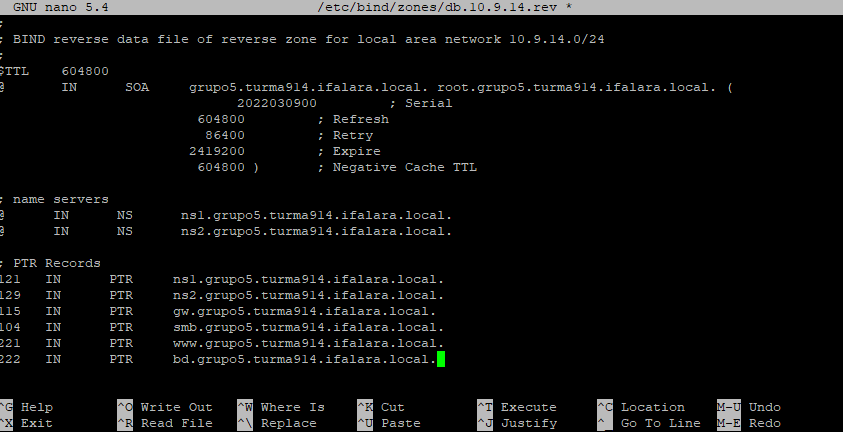
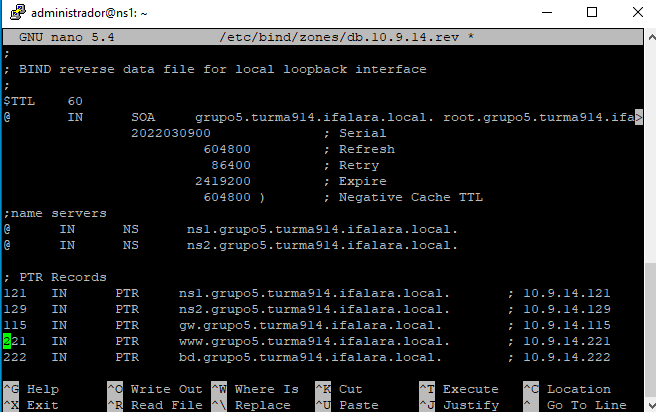
Stage 1

diff --git a/1Etapa/Readme.md b/1Etapa/Readme.md
@@ -24,7 +24,7 @@ c) Criar a página do github do projeto do grupo.
 |:-------------|:------------  | :---------------- |
 |IP de Broadcast:|	10.9.14.255/24	|	192.168.14.39|		
 |IP do GW:|	ens160 10.9.14.115	|ens192 	192.168.14.33|
-|IP do SAMBA:	|ens160	10.9.14.104	| ens192	192.168.14.34|
+|IP do SAMBA:	|ens160	10.9.14.121	| ens192	192.168.14.|
 |IP do NS1:	|ens160	10.9.14.121	| ens192	192.168.14.35|
 |IP do NS2:	|ens160	10.9.14.129	| ens192	192.168.14.36|
 |IP do WEB	|ens160	10.9.14.221	| ens192	192.168.14.37|
@@ -35,7 +35,7 @@ c) Criar a página do github do projeto do grupo.
 |VM	Domínio | (zona): |grupo5.turma914.ifalara.local|
 |:----------|:--------|:----------------------------|			
 |Aluno29	|FQDN do GW:	|gw.grupo5.turma914.ifalara.local|
-|Aluno04	|FQDN do SAMBA:	|smb.grupo5.turma914.ifalara.local|
+|Aluno21	|FQDN do SAMBA:	|ns1.grupo5.turma914.ifalara.local|
 |Aluno21	| FQDN do NS1:	| ns1.grupo5.turma914.ifalara.local|
 |Aluno15 |	FQDN do NS2: | ns2.grupo5.turma914.ifalara.local|
 |Grupo5vm1 | FQDN do WEB	| www.grupo5.turma914.ifalara.local |
@@ -111,31 +111,6 @@ $ sudo nano /etc/bind/zones/db.grupo5.turma914.ifalara.local
 
 ### Nele vamos colocar os DNS e os IPs:
 
-Configure, como está abaixo:
-````
-;
-; BIND data file for internal network
-;
-$ORIGIN grupo5.turma914.ifalara.local.
-$TTL	3h
-@	IN	SOA	ns1.grupo5.turma914.ifalara.local. root.grupo4.turma914.ifalara.local. (
-			      2022030900		; Serial
-			      3h	; Refresh
-			      1h	; Retry
-			      1w	; Expire
-			      1h )	; Negative Cache TTL
-;nameservers
-@	IN	NS	ns1.grupo5.turma914.ifalara.local.
-@	IN	NS	ns2.grupo5.turma914.ifalara.local.
-
-;hosts
-ns1.grupo5.turma914.ifalara.local.	  IN	A	10.9.14.121
-ns2.grupo5.turma914.ifalara.local.	  IN	A	10.9.14.129
-smb.grupo5.turma914.ifalara.local.	  IN	A	10.9.14.104
-gw.grupo5.turma914.ifalara.local.	  IN 	A	10.9.14.115
-www.grupo5.turma914.ifalara.local.	  IN 	A	10.9.14.221
-bd.grupo5.turma914.ifalara.local.	  IN 	A	10.9.14.222
-````
 ### ANTES:
 	
 ![7](https://github.com/MNahVR/Sred-Final/blob/main/1Etapa/ns1/Galeria/7.png)
@@ -152,31 +127,6 @@ $ sudo nano /etc/bind/zones/db.10.9.14.rev
 
 ### Nele vamos colocar os DNS e os IPs:
 
-
-````
-;
-; BIND reverse data file of reverse zone for local area network 10.9.14.0/24
-;
-$TTL    604800
-@       IN      SOA     grupo5.turma914.ifalara.local. root.grupo5.turma914.ifalara.local. (
-                              2022030900         ; Serial
-                         604800         ; Refresh
-                          86400         ; Retry
-                        2419200         ; Expire
-                         604800 )       ; Negative Cache TTL
-
-; name servers
-@      IN      NS      ns1.grupo5.turma914.ifalara.local.
-@      IN      NS      ns2.grupo5.turma914.ifalara.local.
-
-; PTR Records
-121   IN      PTR     ns1.grupo5.turma914.ifalara.local.
-129   IN      PTR     ns2.grupo5.turma914.ifalara.local.
-115   IN      PTR     gw.grupo5.turma914.ifalara.local.
-104   IN      PTR     smb.grupo5.turma914.ifalara.local.
-221   IN      PTR     www.grupo5.turma914.ifalara.local.
-222   IN      PTR     bd.grupo5.turma914.ifalara.local.
-````
 ### ANTES:
 	
 ![10](https://github.com/MNahVR/Sred-Final/blob/main/1Etapa/ns1/Galeria/10.png)
@@ -296,7 +246,7 @@ network:
       nameservers:
         addresses:
           - 10.9.14.121
-          - 10.9.14.115
+          - 10.9.14.129
         search: [grupo5.turma914.ifalara.local]
     ens192:
       addresses: [192.168.14.35/29]
@@ -324,7 +274,8 @@ $ ping google.com
 
 
 
-## Na máquina ns2, é necessário configurar o Dns Slave com os dominios corretos
+## 3.2 - Configuração da máquina ns2, 
+### Nela vamos configurar o Dns Slave com os dominios corretos
 
 ## 1º passo - Corrigir o nome da maquina, colocando de acordo com a planilha de acompanhamento
 ````
@@ -373,7 +324,7 @@ network:
       nameservers:
         addresses:
           - 10.9.14.1		
-          - 10.9.14.115
+          - 10.9.14.129
         search: [grupo5.turma914.ifalara.local]
     ens192:
       addresses: [192.168.14.36/29]

diff --git a/1Etapa/ns1/Readme.md b/1Etapa/ns1/Readme.md
@@ -1,51 +1,4 @@
-# 1ª PARTE DO PROJETO FINAL DE SRED
-
-## 1. Introdução
-### Nessa etapa, devesse fornecer:
-
-a) A apresentação das tabelas de definições de nomes e IPs para todas as VMs
-
-b) Criar o DNS Master e Slave, conforme o nome de domínio: grupo5.turma914.ifala.local.
-	
-c) Criar a página do github do projeto do grupo.
-
-## 2. Definições iniciais:
-
- |          GRUPO 5					           |
- |:------------------------------------|
- |         Nome dos integrantes        |
- |Aluno 1:   Maria Nathálya Veiga Rodrigues  |
- |Aluno 2:	 Diogo Bonfim Pinheiro	      |
- |Aluno 3:	 Sandrielly Amorim Silva      |
-
-
-### CONFIGURAÇÕES DAS INTEFACES DE REDE		
-|IP da Subrede:| 10.9.14.0/24  | 	192.168.14.32/29 |
-|:-------------|:------------  | :---------------- |
-|IP de Broadcast:|	10.9.14.255/24	|	192.168.14.39|		
-|IP do GW:|	ens160 10.9.14.115	|ens192 	192.168.14.33|
-|IP do SAMBA:	|ens160	10.9.14.104	| ens192	192.168.14.34|
-|IP do NS1:	|ens160	10.9.14.121	| ens192	192.168.14.35|
-|IP do NS2:	|ens160	10.9.14.129	| ens192	192.168.14.36|
-|IP do WEB	|ens160	10.9.14.221	| ens192	192.168.14.37|
-|IP do BD	|ens160	10.9.14.222	| ens192	192.168.14.38|
-					
-
-### Definição de Nomes e Domínio (<grupo>.<turma>.ifalara.local):		
-|VM	Domínio | (zona): |grupo5.turma914.ifalara.local|
-|:----------|:--------|:----------------------------|			
-|Aluno29	|FQDN do GW:	|gw.grupo5.turma914.ifalara.local|
-|Aluno04	|FQDN do SAMBA:	|smb.grupo5.turma914.ifalara.local|
-|Aluno21	| FQDN do NS1:	| ns1.grupo5.turma914.ifalara.local|
-|Aluno15 |	FQDN do NS2: | ns2.grupo5.turma914.ifalara.local|
-|Grupo5vm1 | FQDN do WEB	| www.grupo5.turma914.ifalara.local |
-|Grupo5vm2	| FQDN do BD	| bd.grupo5.turma914.ifalara.local |
-
-## 3. Implementação dos Serivços de Rede
-
-
-	
-## 3.1 - Configuração da máquina ns1 
+# Configuração da máquina ns1 
 	
 ### Nela vamos configurar o serviço de resolução de nome (DNS) com o Bind9, utilizando-a como DNS Master
 	

diff --git a/3Etapa/Readme.md b/3Etapa/Readme.md
@@ -49,7 +49,8 @@ d) Reconfigurar as interfaces do SAMBA, WWW e BD para que passem somente pelo GW
 ## 3.1 Configuração SAMBA
 ### Nessa máquina devesse adicionar a resolução de nomes e o serviço de compartilhamento de arquivos SAMBA.
  
- * OBS.: Foi acordado com o professor que a máquina utilizada para ser o samba seria a mesma que está sendo o ns1
+ * OBS.: Foi acordado com o professor que a máquina utilizada para ser o samba seria a mesma que está sendo o ns1 (IP: 10.9.14.121).
+         Os prints foram "reciclados" da avaliação passada, mas é a mesma máquina.
 
 ## 1º Passo - Faça o update primeiro, e em seguida a instalação do samba
 

diff --git a/README.md b/README.md
@@ -851,7 +851,8 @@ exit
 ## 3.5 Configuração SAMBA
 ### Nessa máquina devesse adicionar a resolução de nomes e o serviço de compartilhamento de arquivos SAMBA.
  
- * OBS.: Foi acordado com o professor que a máquina utilizada para ser o samba seria a mesma que está sendo o ns1
+ * OBS.: Foi acordado com o professor que a máquina utilizada para ser o samba seria a mesma que está sendo o ns1.
+         Os prints foram "reciclados" da avaliação passada, mas é a mesma máquina.
 
 ## 1º Passo - Faça o update primeiro, e em seguida a instalação do samba
 

diff --git a/3Etapa/smb/Readme.md b/3Etapa/smb/Readme.md
@@ -1,4 +1,8 @@
 ## CONFIGURAÇÃO SAMBA
+### Nessa máquina devesse adicionar a resolução de nomes e o serviço de compartilhamento de arquivos SAMBA.
+
+* OBS.: Foi acordado com o professor que a máquina utilizada para ser o samba seria a mesma que está sendo o ns1 (IP: 10.9.14.121).
+        Os prints foram "reciclados" da avaliação passada, mas é a mesma máquina.
 
 ## 1º Passo - Faça o update primeiro, e em seguida a instalação do samba
 

diff --git a/1Etapa/ns2/Readme.md b/1Etapa/ns2/Readme.md
@@ -1,4 +1,5 @@
-# Na máquina ns2, é necessário configurar o Dns Slave com os dominios corretos
+# Configuração da máquina ns2, 
+## Nela vamos configurar o Dns Slave com os dominios corretos
 
 ## 1º passo - Corrigir o nome da maquina, colocando de acordo com a planilha de acompanhamento
 ````
